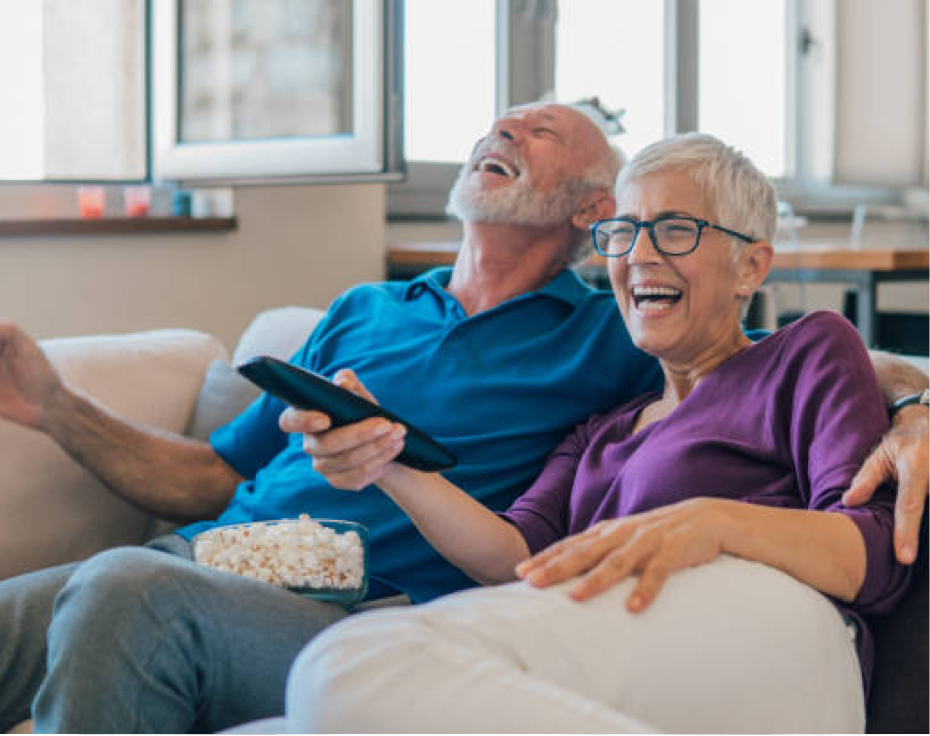
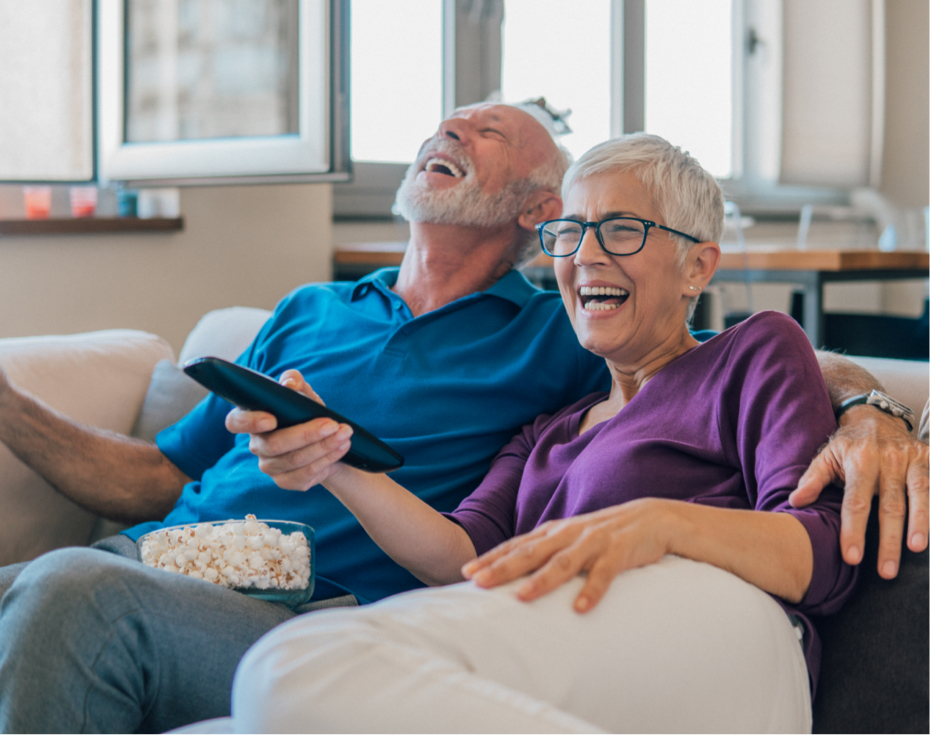
Update image aand ds_store
Updated with higher quality image and updated ds_store

diff --git a/index.html b/index.html
@@ -382,7 +382,7 @@
                     <div class="passport-table__feature__item__bullet--new">
                         <span class="passport-table__feature-item--text">Enjoy extended access to a library of
                             1,500+ exclusive and past episodes</span>
-                        <img src="dist/img/new.svg" alt="Purple icon displaying the word New. This is a new feature.">
+
                     </div>
                 </div>
                 <div class="passport-table__feature__item__bullet__container">

diff --git a/README.md b/README.md
@@ -41,3 +41,8 @@ That's it! You can now use these packages in your Gulpfile to automate your buil
 ### Open the index.html
 
 Open the Passport_modules/index.html to view the web webpage.
+
+## Photo on iStockphoto Licensed and Owned by KPBS
+
+The photo displayed on iStockphoto is licensed and owned by KPBS. KPBS is the owner of the rights to the photo and has granted iStockphoto the permission to display and license the photo. Any use of the photo must be authorized by KPBS.
+https://www.istockphoto.com/photo/happy-senior-couple-watching-tv-gm1053494320-281464181
